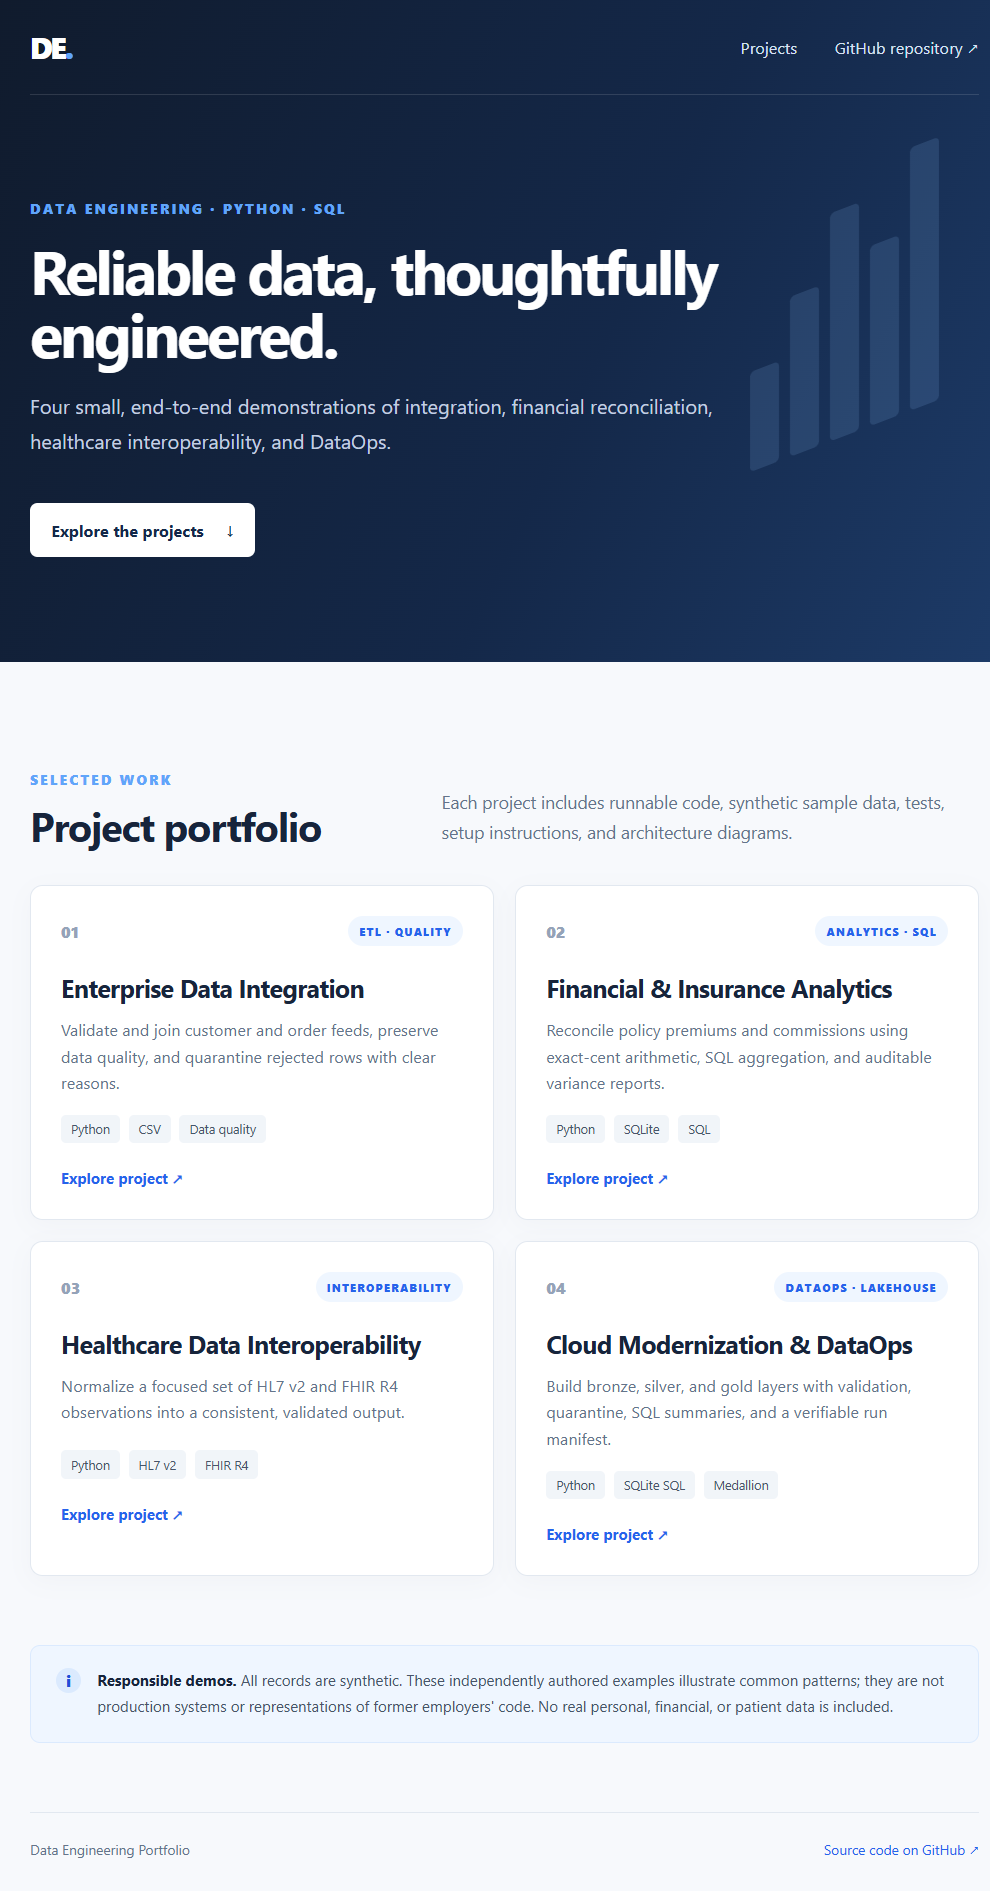
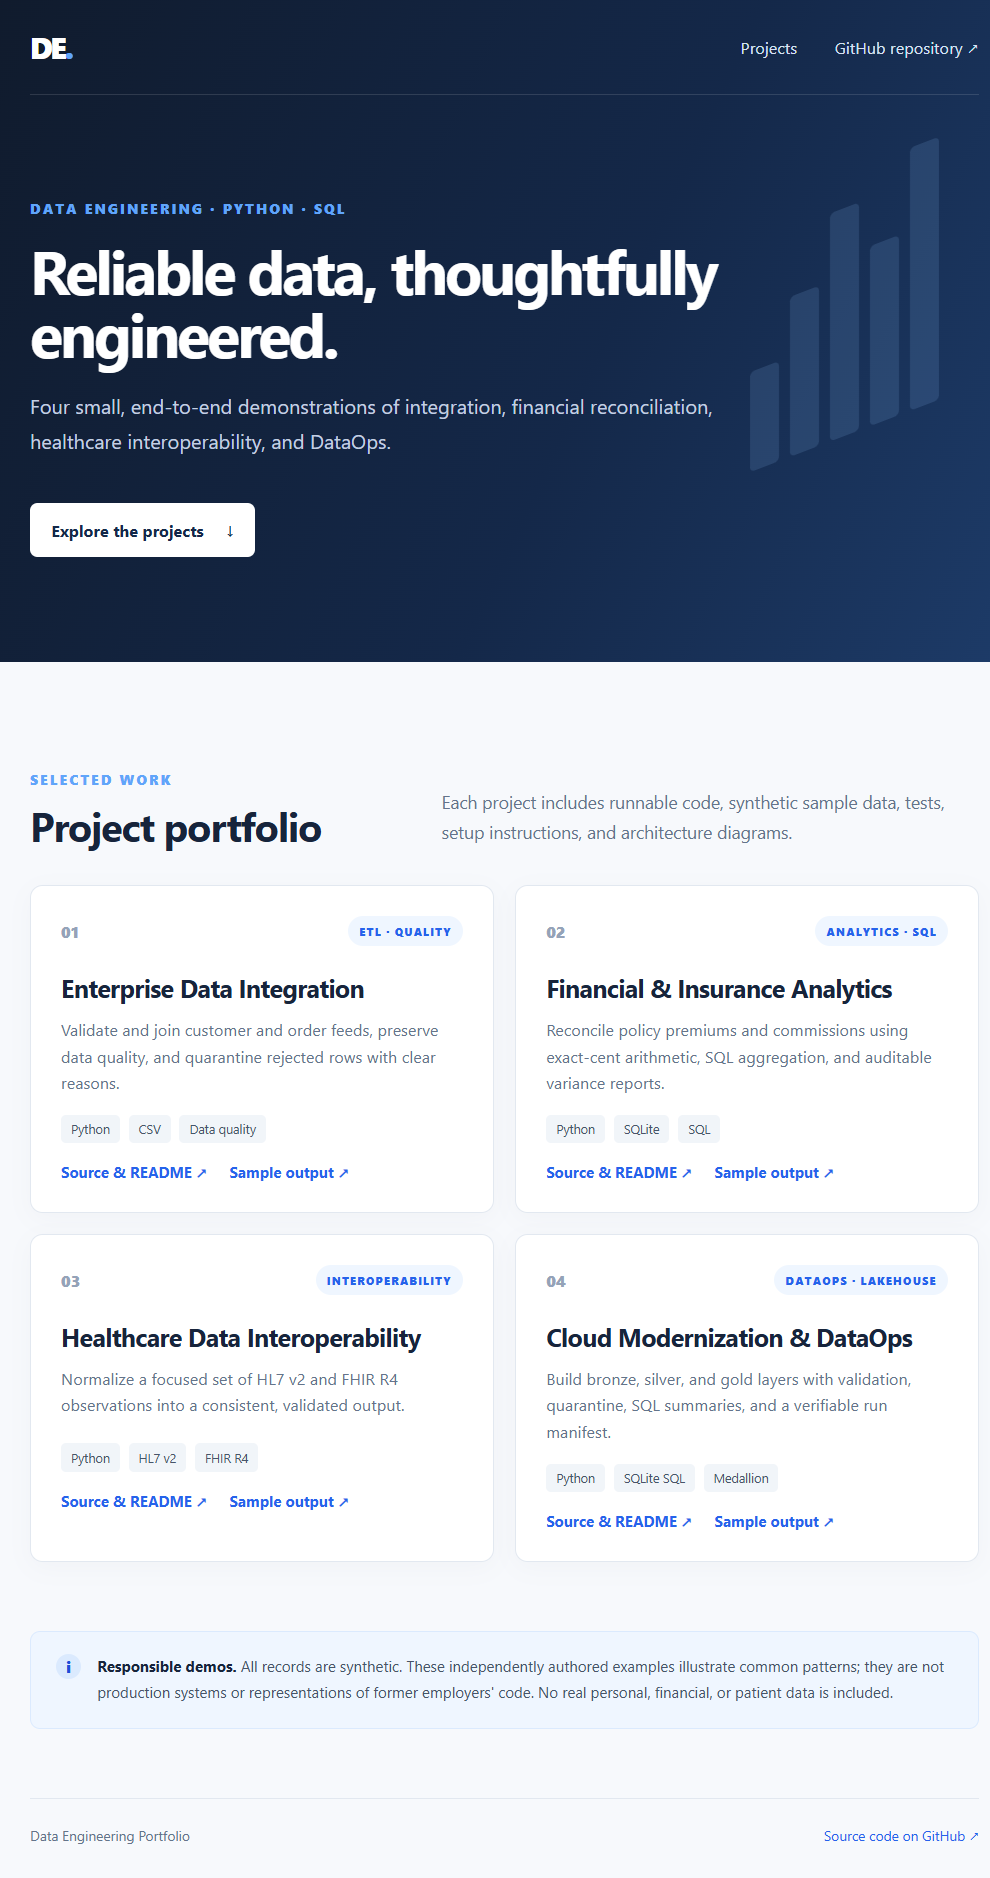
Add hosted sample output previews

diff --git a/docs/demos/index.html b/docs/demos/index.html
@@ -1,0 +1,128 @@
+<!doctype html>
+<html lang="en">
+  <head>
+    <meta charset="utf-8">
+    <meta name="viewport" content="width=device-width, initial-scale=1">
+    <meta name="description" content="Sample outputs from four runnable data engineering demos, using synthetic data.">
+    <title>Pipeline output previews | Data Engineering Portfolio</title>
+    <link rel="stylesheet" href="../styles.css">
+    <style>
+      .demo-page { width: min(940px, calc(100% - 40px)); margin: 0 auto; padding: 48px 0; }
+      .demo-intro { margin-bottom: 30px; }
+      .demo-intro a, .demo-card a { color: #2563eb; text-decoration: none; }
+      .demo-card { margin: 20px 0; padding: 26px; border: 1px solid #e2e8f0; border-radius: 10px; background: #fff; box-shadow: 0 5px 20px #13294b08; }
+      .demo-head { display: flex; justify-content: space-between; align-items: start; gap: 16px; }
+      .demo-head h2 { margin: 0 0 8px; font-size: 23px; }
+      .demo-head p { margin: 0 0 18px; color: #64748b; font-size: 13px; line-height: 1.6; }
+      .badge { flex: 0 0 auto; padding: 6px 9px; border-radius: 16px; background: #eff6ff; color: #2563eb; font-size: 10px; font-weight: 800; }
+      .table-wrap { overflow-x: auto; }
+      table { width: 100%; border-collapse: collapse; font-size: 12px; text-align: left; }
+      th { padding: 10px 9px; background: #f1f5f9; color: #475569; font-size: 10px; letter-spacing: .04em; text-transform: uppercase; }
+      td { padding: 10px 9px; border-bottom: 1px solid #e2e8f0; color: #334155; white-space: nowrap; }
+      .ok { color: #15803d; font-weight: 700; }
+      .warn { color: #b45309; font-weight: 700; }
+      .metric-row { display: flex; flex-wrap: wrap; gap: 10px; margin: 14px 0 18px; }
+      .metric { padding: 9px 12px; border-radius: 6px; background: #f1f5f9; color: #475569; font-size: 11px; }
+      .metric strong { color: #17243b; }
+      .notice { margin-top: 24px; }
+      @media (max-width: 600px) {
+        .demo-page { width: calc(100% - 24px); padding-top: 30px; }
+        .demo-card { padding: 18px 14px; }
+        .demo-head { display: block; }
+        .badge { display: inline-block; margin-bottom: 12px; }
+      }
+    </style>
+  </head>
+  <body>
+    <main class="demo-page">
+      <header class="demo-intro">
+        <p class="eyebrow">SYNTHETIC DATA · REPRODUCIBLE EXAMPLES</p>
+        <h1 style="font-size:clamp(30px,5vw,46px);color:#17243b">Pipeline output previews</h1>
+        <p class="intro" style="color:#64748b">These read-only tables correspond to the checked-in sample inputs. Run each project's Python command to regenerate the output files locally.</p>
+        <a href="../index.html">← Back to portfolio</a>
+      </header>
+
+      <article class="demo-card" id="project-01">
+        <div class="demo-head">
+          <div><h2>01 · Enterprise Data Integration</h2><p>Three joined orders accepted; two records quarantined with explicit reasons.</p></div>
+          <span class="badge">3 accepted · 2 rejected</span>
+        </div>
+        <div class="table-wrap">
+          <table>
+            <thead><tr><th>Order</th><th>Customer</th><th>Segment</th><th>Date</th><th>Amount</th><th>Result</th></tr></thead>
+            <tbody>
+              <tr><td>ORD-1001</td><td>Avery Example</td><td>retail</td><td>2025-01-05</td><td>125.50</td><td class="ok">accepted</td></tr>
+              <tr><td>ORD-1002</td><td>Jordan Sample</td><td>business</td><td>2025-01-06</td><td>980.00</td><td class="ok">accepted</td></tr>
+              <tr><td>ORD-1003</td><td>Avery Example</td><td>retail</td><td>2025-01-09</td><td>45.25</td><td class="ok">accepted</td></tr>
+              <tr><td>ORD-1004</td><td>—</td><td>—</td><td>2025-01-10</td><td>20.00</td><td class="warn">unknown customer</td></tr>
+              <tr><td>ORD-1005</td><td>—</td><td>—</td><td>not-a-date</td><td>12.00</td><td class="warn">invalid date</td></tr>
+            </tbody>
+          </table>
+        </div>
+      </article>
+
+      <article class="demo-card" id="project-02">
+        <div class="demo-head">
+          <div><h2>02 · Financial &amp; Insurance Analytics</h2><p>Expected and actual premiums/commissions compared as exact cents.</p></div>
+          <span class="badge">1 reconciled · 2 exceptions</span>
+        </div>
+        <div class="table-wrap">
+          <table>
+            <thead><tr><th>Policy</th><th>Premium expected</th><th>Premium actual</th><th>Premium variance</th><th>Commission variance</th><th>Status</th></tr></thead>
+            <tbody>
+              <tr><td>POL-001</td><td>$1,000.00</td><td>$1,000.00</td><td>$0.00</td><td>$0.00</td><td class="ok">reconciled</td></tr>
+              <tr><td>POL-002</td><td>$250.00</td><td>$240.00</td><td>-$10.00</td><td>-$5.00</td><td class="warn">exception</td></tr>
+              <tr><td>POL-003</td><td>$500.00</td><td>$0.00</td><td>-$500.00</td><td>-$50.00</td><td class="warn">exception</td></tr>
+            </tbody>
+          </table>
+        </div>
+      </article>
+
+      <article class="demo-card" id="project-03">
+        <div class="demo-head">
+          <div><h2>03 · Healthcare Interoperability</h2><p>HL7 v2 ORU and FHIR R4 observations normalized to one output shape.</p></div>
+          <span class="badge">3 synthetic observations</span>
+        </div>
+        <div class="table-wrap">
+          <table>
+            <thead><tr><th>Source</th><th>Patient ref</th><th>Code</th><th>Observation</th><th>Value</th><th>Unit</th><th>Status</th></tr></thead>
+            <tbody>
+              <tr><td>HL7v2</td><td>SYNTH-PAT-001</td><td>DEMO-GLU</td><td>Synthetic glucose</td><td>92</td><td>mg/dL</td><td>F</td></tr>
+              <tr><td>HL7v2</td><td>SYNTH-PAT-001</td><td>DEMO-HGB</td><td>Synthetic hemoglobin</td><td>13.8</td><td>g/dL</td><td>F</td></tr>
+              <tr><td>FHIR</td><td>SYNTH-PAT-002</td><td>DEMO-TEMP</td><td>Synthetic temperature</td><td>36.8</td><td>Cel</td><td>final</td></tr>
+            </tbody>
+          </table>
+        </div>
+      </article>
+
+      <article class="demo-card" id="project-04">
+        <div class="demo-head">
+          <div><h2>04 · Cloud Modernization &amp; DataOps</h2><p>Validated silver records roll up into a SQL-based daily gold summary.</p></div>
+          <span class="badge">4 silver · 2 quarantined</span>
+        </div>
+        <div class="metric-row">
+          <span class="metric">Bronze rows <strong>6</strong></span>
+          <span class="metric">Silver rows <strong>4</strong></span>
+          <span class="metric">Quarantined <strong>2</strong></span>
+          <span class="metric">Run status <strong class="ok">success</strong></span>
+        </div>
+        <div class="table-wrap">
+          <table>
+            <thead><tr><th>Event date</th><th>Event type</th><th>Count</th><th>Total amount</th></tr></thead>
+            <tbody>
+              <tr><td>2025-02-01</td><td>claim</td><td>1</td><td>$75.00</td></tr>
+              <tr><td>2025-02-01</td><td>payment</td><td>1</td><td>$125.50</td></tr>
+              <tr><td>2025-02-02</td><td>adjustment</td><td>1</td><td>$15.00</td></tr>
+              <tr><td>2025-02-02</td><td>payment</td><td>1</td><td>$42.25</td></tr>
+            </tbody>
+          </table>
+        </div>
+      </article>
+
+      <section class="notice">
+        <span class="notice-icon" aria-hidden="true">i</span>
+        <p><strong>Synthetic examples only.</strong> Names and identifiers are fictitious. These previews are illustrative outputs from the included sample data, not production healthcare, financial, or employer data.</p>
+      </section>
+    </main>
+  </body>
+</html>

diff --git a/docs/index.html b/docs/index.html
@@ -39,28 +39,40 @@
             <h3>Enterprise Data Integration</h3>
             <p>Validate and join customer and order feeds, preserve data quality, and quarantine rejected rows with clear reasons.</p>
             <div class="chips"><span>Python</span><span>CSV</span><span>Data quality</span></div>
-            <a href="https://github.com/atifwright57/fatima-projects/tree/main/projects/01-enterprise-data-integration">Explore project ↗</a>
+            <div class="card-links">
+              <a href="https://github.com/atifwright57/fatima-projects/tree/main/projects/01-enterprise-data-integration">Source &amp; README ↗</a>
+              <a href="demos/index.html#project-01">Sample output ↗</a>
+            </div>
           </article>
           <article class="card">
             <div class="card-top"><span class="number">02</span><span class="tag">ANALYTICS · SQL</span></div>
             <h3>Financial &amp; Insurance Analytics</h3>
             <p>Reconcile policy premiums and commissions using exact-cent arithmetic, SQL aggregation, and auditable variance reports.</p>
             <div class="chips"><span>Python</span><span>SQLite</span><span>SQL</span></div>
-            <a href="https://github.com/atifwright57/fatima-projects/tree/main/projects/02-financial-insurance-analytics">Explore project ↗</a>
+            <div class="card-links">
+              <a href="https://github.com/atifwright57/fatima-projects/tree/main/projects/02-financial-insurance-analytics">Source &amp; README ↗</a>
+              <a href="demos/index.html#project-02">Sample output ↗</a>
+            </div>
           </article>
           <article class="card">
             <div class="card-top"><span class="number">03</span><span class="tag">INTEROPERABILITY</span></div>
             <h3>Healthcare Data Interoperability</h3>
             <p>Normalize a focused set of HL7 v2 and FHIR R4 observations into a consistent, validated output.</p>
             <div class="chips"><span>Python</span><span>HL7 v2</span><span>FHIR R4</span></div>
-            <a href="https://github.com/atifwright57/fatima-projects/tree/main/projects/03-healthcare-interoperability">Explore project ↗</a>
+            <div class="card-links">
+              <a href="https://github.com/atifwright57/fatima-projects/tree/main/projects/03-healthcare-interoperability">Source &amp; README ↗</a>
+              <a href="demos/index.html#project-03">Sample output ↗</a>
+            </div>
           </article>
           <article class="card">
             <div class="card-top"><span class="number">04</span><span class="tag">DATAOPS · LAKEHOUSE</span></div>
             <h3>Cloud Modernization &amp; DataOps</h3>
             <p>Build bronze, silver, and gold layers with validation, quarantine, SQL summaries, and a verifiable run manifest.</p>
             <div class="chips"><span>Python</span><span>SQLite SQL</span><span>Medallion</span></div>
-            <a href="https://github.com/atifwright57/fatima-projects/tree/main/projects/04-cloud-dataops">Explore project ↗</a>
+            <div class="card-links">
+              <a href="https://github.com/atifwright57/fatima-projects/tree/main/projects/04-cloud-dataops">Source &amp; README ↗</a>
+              <a href="demos/index.html#project-04">Sample output ↗</a>
+            </div>
           </article>
         </div>
       </section>

diff --git a/docs/styles.css b/docs/styles.css
@@ -56,7 +56,8 @@ h3 { margin: 20px 0 9px; font-size: 20px; letter-spacing: -.025em; }
 .card p { min-height: 48px; margin: 0; color: var(--muted); font-size: 13px; line-height: 1.65; }
 .chips { display: flex; flex-wrap: wrap; gap: 7px; margin: 15px 0; }
 .chips span { padding: 5px 8px; border-radius: 4px; background: #f1f5f9; color: #475569; font-size: 10px; }
-.card > a { color: var(--blue); font-size: 12px; font-weight: 700; text-decoration: none; }
+.card-links { display: flex; flex-wrap: wrap; gap: 18px; }
+.card-links a { color: var(--blue); font-size: 12px; font-weight: 700; text-decoration: none; }
 .notice { display: flex; gap: 13px; align-items: start; margin: 0 0 55px; padding: 18px 20px; border: 1px solid #dbeafe; border-radius: 8px; background: #eff6ff; }
 .notice-icon { display: grid; flex: 0 0 20px; height: 20px; place-items: center; border-radius: 50%; background: #dbeafe; color: #1d4ed8; font-size: 12px; font-weight: 800; }
 .notice p { margin: 0; color: #475569; font-size: 12px; line-height: 1.7; }

diff --git a/README.md b/README.md
@@ -30,7 +30,7 @@ Generated files go to each project's ignored `output/` directory, except the Dat
 
 ## Architecture
 
-The [live portfolio landing page](https://atifwright57.github.io/fatima-projects/) is published from `docs/` with GitHub Pages. The [portfolio architecture and data-flow diagrams](docs/portfolio-architecture.md) describe the shared design boundaries. Each project README has setup instructions, a Mermaid architecture/data-flow graph, a focused class diagram, test commands, and its own synthetic-data disclaimer.
+The [live portfolio landing page](https://atifwright57.github.io/fatima-projects/) is published from `docs/` with GitHub Pages. The [portfolio architecture and data-flow diagrams](docs/portfolio-architecture.md) describe the shared design boundaries. Each project README has setup instructions, a Mermaid architecture/data-flow graph, a conceptual class diagram, a sample-output screenshot, a hosted synthetic preview, test commands, and a data disclaimer.
 
 ![Portfolio landing-page screenshot](docs/portfolio-home.png)
 

diff --git a/docs/portfolio-architecture.md b/docs/portfolio-architecture.md
@@ -48,7 +48,9 @@ flowchart LR
     V --> M
 ```
 
-## Class diagrams
+## Conceptual class diagrams
+
+The runnable reference code is intentionally function-oriented. These diagrams show logical component responsibilities as UML-style classes; they are design views, not claims that identically named Python classes are present in each implementation.
 
 ### Enterprise integration
 
@@ -95,7 +97,7 @@ classDiagram
     class InteroperabilityPipeline {
         +run(hl7_path, fhir_path, output_path)
     }
-    class Hl7OrUParser {
+    class Hl7OruParser {
         +parse(text)
     }
     class FhirBundleParser {
@@ -104,7 +106,7 @@ classDiagram
     class ObservationWriter {
         +write(path, observations)
     }
-    InteroperabilityPipeline --> Hl7OrUParser
+    InteroperabilityPipeline --> Hl7OruParser
     InteroperabilityPipeline --> FhirBundleParser
     InteroperabilityPipeline --> ObservationWriter
 ```

diff --git a/projects/02-financial-insurance-analytics/README.md b/projects/02-financial-insurance-analytics/README.md
@@ -10,6 +10,12 @@ python projects/02-financial-insurance-analytics/src/reconcile.py
 
 Outputs are `reconciliation.db` and `reconciliation.csv` in this project's ignored `output/` directory. The schema and aggregate query are readable in `sql/schema.sql` and `sql/reconciliation.sql`.
 
+## Sample result
+
+[View the live synthetic output preview](https://atifwright57.github.io/fatima-projects/demos/#project-02).
+
+![Screenshot of financial reconciliation sample output](../../docs/project-02-preview.png)
+
 ## Data flow
 
 ```mermaid
@@ -22,7 +28,9 @@ flowchart LR
     R --> O[reconciliation.csv]
 ```
 
-## Class diagram
+## Conceptual class diagram
+
+The runnable code uses module-level functions; this UML-style view describes the logical responsibilities, not classes implemented in the demo.
 
 ```mermaid
 classDiagram

diff --git a/projects/01-enterprise-data-integration/README.md b/projects/01-enterprise-data-integration/README.md
@@ -12,6 +12,12 @@ python projects/01-enterprise-data-integration/src/etl.py
 
 The demo writes `customer_orders.csv` and `rejected_orders.csv` beneath this project's ignored `output/` directory. Rejected rows are reported rather than silently discarded.
 
+## Sample result
+
+[View the live synthetic output preview](https://atifwright57.github.io/fatima-projects/demos/#project-01).
+
+![Screenshot of enterprise integration sample output](../../docs/project-01-preview.png)
+
 ## Data flow
 
 ```mermaid
@@ -23,7 +29,9 @@ flowchart LR
     V --> Q[rejected_orders.csv with reason]
 ```
 
-## Class diagram
+## Conceptual class diagram
+
+The runnable code uses module-level functions; this UML-style view describes the logical responsibilities, not classes implemented in the demo.
 
 ```mermaid
 classDiagram

diff --git a/projects/03-healthcare-interoperability/README.md b/projects/03-healthcare-interoperability/README.md
@@ -10,6 +10,12 @@ python projects/03-healthcare-interoperability/src/interop.py
 
 The output is `normalized_observations.csv` in this project's ignored `output/` directory. Both checked-in inputs are synthetic and contain no real patient information.
 
+## Sample result
+
+[View the live synthetic output preview](https://atifwright57.github.io/fatima-projects/demos/#project-03).
+
+![Screenshot of healthcare interoperability sample output](../../docs/project-03-preview.png)
+
 ## Data flow
 
 ```mermaid
@@ -21,7 +27,9 @@ flowchart LR
     N --> O[normalized_observations.csv]
 ```
 
-## Class diagram
+## Conceptual class diagram
+
+The runnable code uses module-level functions; this UML-style view describes the logical responsibilities, not classes implemented in the demo.
 
 ```mermaid
 classDiagram

diff --git a/projects/04-cloud-dataops/README.md b/projects/04-cloud-dataops/README.md
@@ -16,6 +16,12 @@ The default lakehouse is written beneath `projects/04-cloud-dataops/output/lakeh
 - `gold/daily_summary.csv` — event count and amount by event date
 - `manifest.json` — source hash, record counts, and run status
 
+## Sample result
+
+[View the live synthetic output preview](https://atifwright57.github.io/fatima-projects/demos/#project-04).
+
+![Screenshot of the medallion pipeline sample output](../../docs/project-04-preview.png)
+
 ## Data flow
 
 ```mermaid
@@ -31,7 +37,9 @@ flowchart LR
     G --> M
 ```
 
-## Class diagram
+## Conceptual class diagram
+
+The runnable code uses module-level functions; this UML-style view describes the logical responsibilities, not classes implemented in the demo.
 
 ```mermaid
 classDiagram
